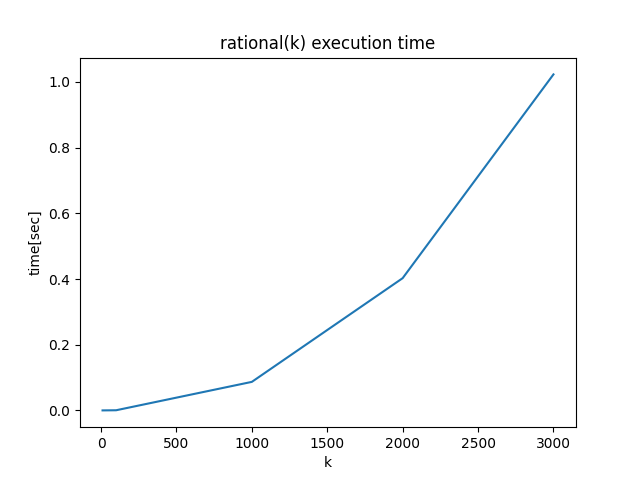
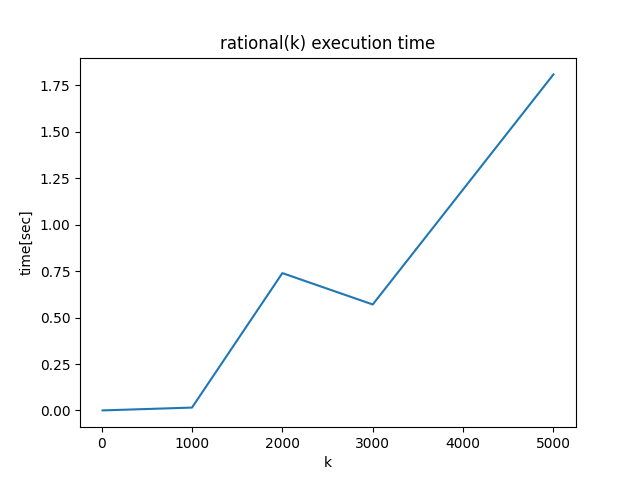
原始根の計算を修正、スレッド対応、テスト追加

diff --git a/src/bernoulli.py b/src/bernoulli.py
@@ -1,5 +1,7 @@
 """."""
 
+from concurrent.futures import ThreadPoolExecutor, as_completed
+
 import math
 from fractions import Fraction
 
@@ -20,7 +22,7 @@ def get_primitive_root_(p):
             break
     return g
 
-def get_primitive_root_old(p):
+def get_primitive_root_01(p):
     for i in sympy.primerange(3, p+1):
         x = i
         for j in range(2, p):
@@ -32,7 +34,7 @@ def get_primitive_root_old(p):
             return i
 
 
-def get_primitive_root(m):
+def get_primitive_root_02(m):
     if m == 2: return 1
     if m == 167772161: return 3
     if m == 469762049: return 3
@@ -52,14 +54,17 @@ def get_primitive_root(m):
     if x > 1: divs.append(x)
 
     # 全ての素因数で1と合同でない最小のgを探す
-    g = 2
+    # g = 2
+    g = 3
     while True:
         if all(pow(g, (m - 1) // div, m) != 1 for div in divs): return g
-        g += 1
+        # g += 1
+        g += 2
+
 
 def calc_mod(p, k):
     # 原始根(生成元)を求める
-    g = get_primitive_root(p)
+    g = get_primitive_root_02(p)
 
     r = pow(g, k-1, p)
     u = ((g - 1) // 2) % p
@@ -75,7 +80,7 @@ def calc_mod(p, k):
 
     return ((2 * k * S) * inv_1_gk) % p
 
-def rational(k):
+def rational(k) -> Fraction:
     Y = max(37, math.ceil(k+0.5*math.log2(k)))
     primes = list(sympy.primerange(Y+1))
     Dk = 1
@@ -90,10 +95,17 @@ def rational(k):
            M_prime = p * M_prime
     X = p
 
+    executor = ThreadPoolExecutor(max_workers=48)
+    futures = []
     rp = {}
     for p in sympy.primerange(X+1):
         if k % (p-1) != 0:
-            rp[p] = calc_mod(p, k)
+            future = executor.submit(calc_mod, p, k)
+            futures.append(future)
+            rp[p] = 1
+            # rp[p] = calc_mod(p, k)
+    for p, future in zip(rp.keys(), futures):
+        rp[p] = future.result()
 
     R = crt(list(rp.keys()), list(rp.values()))
     M = 1

diff --git a/tests/test_bn_factors.py b/tests/test_bn_factors.py
@@ -1,0 +1,27 @@
+from src.bernoulli import rational
+
+
+def test_do():
+    b100 = rational(100)
+    assert (b100.numerator % 263) == 0
+    assert (b100.numerator % 379) == 0
+    assert (b100.numerator % 28717943) == 0
+    assert (b100.numerator % 65677171692755556482181133) == 0
+
+    b200 = rational(200)
+    assert (b200.numerator % 389) == 0
+    assert (b200.numerator % 691) == 0
+
+    b300 = rational(300)
+    assert (b300.numerator % 353) == 0
+
+    b1000 = rational(1000)
+    assert (b1000.numerator % 19919) == 0
+
+    b2000 = rational(2000)
+    assert (b2000.numerator % 1217) == 0
+    assert (b2000.numerator % 306953) == 0
+
+    b3000 = rational(3000)
+    assert (b3000.numerator % 547) == 0
+    assert (b3000.numerator % 40609) == 0

diff --git a/tests/test_threads.py b/tests/test_threads.py
@@ -1,0 +1,28 @@
+"""."""
+
+from src.bernoulli import calc_mod
+from concurrent.futures import ThreadPoolExecutor
+import sympy
+
+
+def test_threads():
+    X = 1000
+    k = 10
+    rp = {}
+    for p in sympy.primerange(X+1):
+        if k % (p-1) != 0:
+            rp[p] = calc_mod(p, k)
+
+    executor = ThreadPoolExecutor(max_workers=4)
+    futures = []
+    rp_thread = {}
+    for p in sympy.primerange(X+1):
+        if k % (p-1) != 0:
+            future = executor.submit(calc_mod, p, k)
+            futures.append(future)
+            rp_thread[p] = 1
+    for p, future in zip(rp.keys(), futures):
+        rp_thread[p] = future.result()
+
+    for p in rp.keys():
+        assert rp[p] == rp_thread[p]

diff --git a/main.py b/main.py
@@ -1,9 +1,19 @@
 from src.bernoulli import rational
+import sys
+sys.set_int_max_str_digits(0)
 
 if __name__ == '__main__':
     import argparse
     parser = argparse.ArgumentParser()
     parser.add_argument('n', type=int)
+    parser.add_argument('--to_file', action='store_true')
 
     args = parser.parse_args()
-    print(rational(args.n))
+    Bn = rational(args.n)
+    if args.to_file:
+        with open('out.txt', 'w') as f:
+            f.write(str(Bn.numerator))
+            f.write('\n')
+            f.write(str(Bn.denominator))
+    else:
+        print(Bn)

diff --git a/tests/test_equal_wikipedia.py b/tests/test_equal_wikipedia.py
@@ -1,7 +1,7 @@
 import pytest
 
 from fractions import Fraction
-from src.main import rational
+from src.bernoulli import rational
 
 def test_n():
     assert rational(2) == Fraction(1, 6)

diff --git a/tests/test_primitive_root.py b/tests/test_primitive_root.py
@@ -1,0 +1,4 @@
+from src.bernoulli import get_primitive_root_01, get_primitive_root_02
+
+def test_do():
+    assert get_primitive_root_01(13) == get_primitive_root_02(13)
